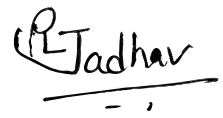
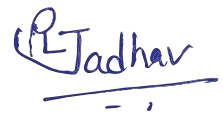
Keep certificate design scratch out of git; ship marksheet seal and updated signatures.

diff --git a/gyanamindia/includes/exam_integration.php b/gyanamindia/includes/exam_integration.php
@@ -788,7 +788,6 @@ function questionBankPdfBrandPaths(): array
     $candidatesLetterhead = [
         __DIR__ . '/../assets/branding/giit_letterhead.png',
         __DIR__ . '/../assets/templates/giit_marksheet_header.png',
-        __DIR__ . '/../../image.png',
     ];
     $candidatesLogo = [
         __DIR__ . '/../assets/giit_logo.png',
